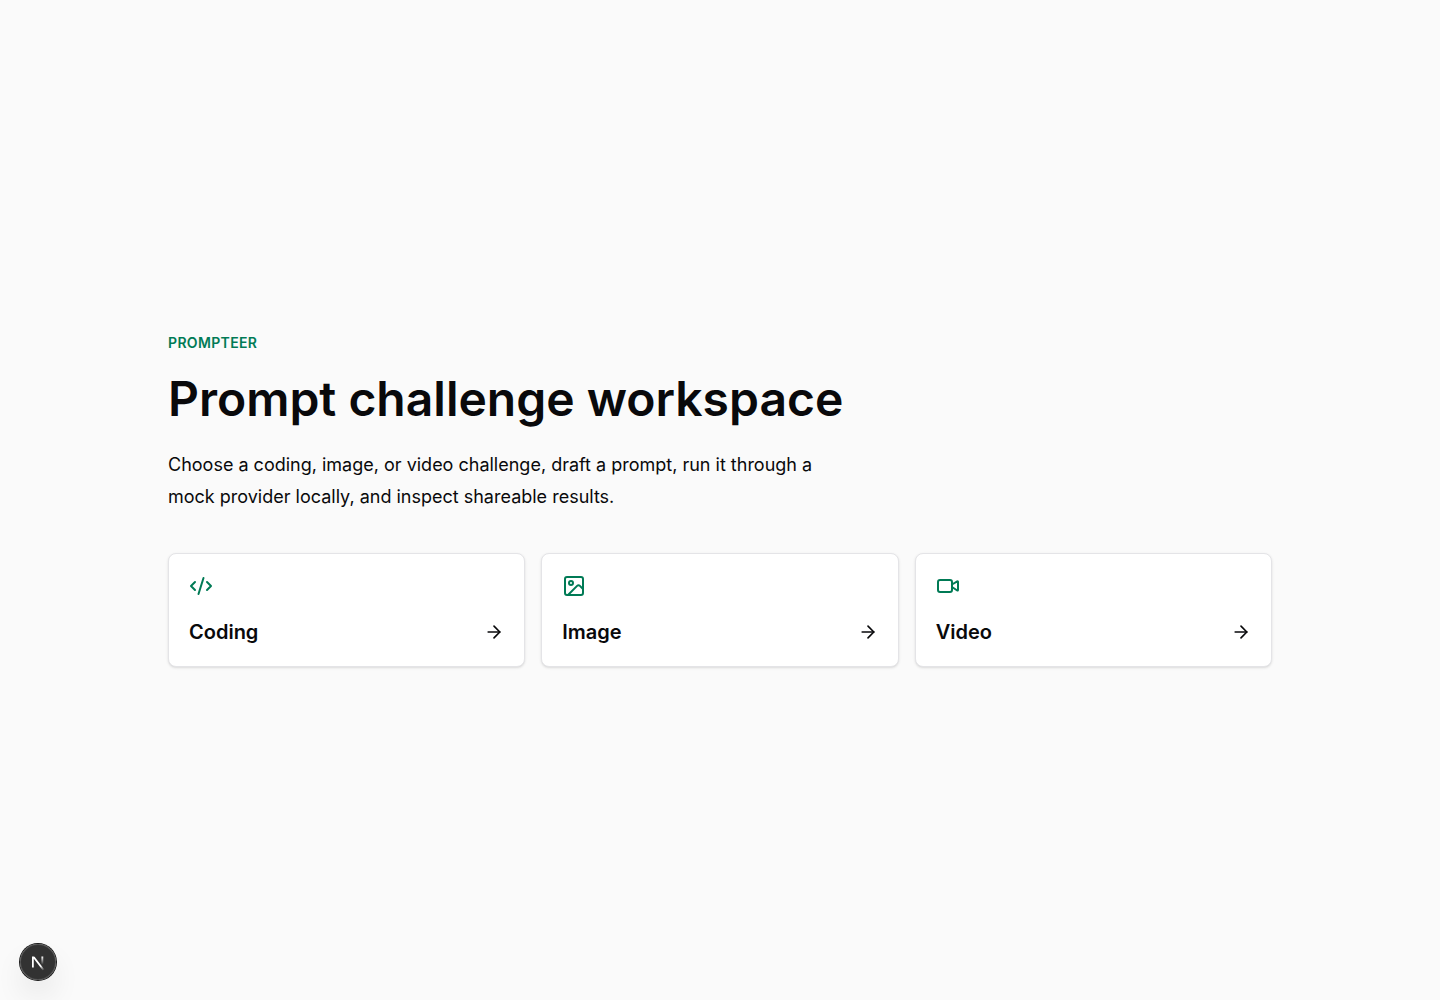
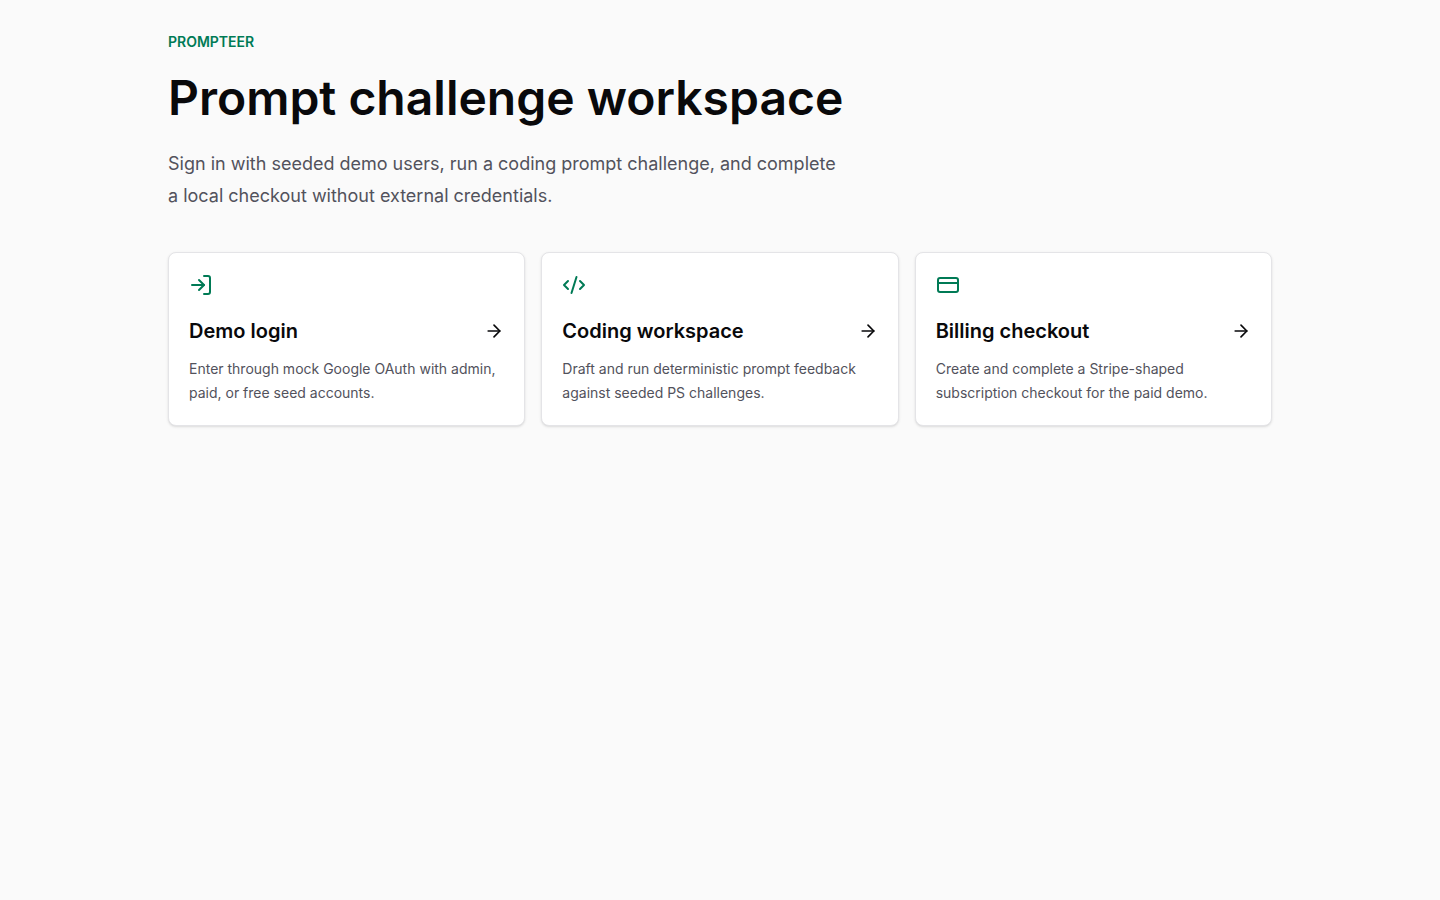
feat(web): link verified app entrypoints

diff --git a/apps/web/src/app/[locale]/page.tsx b/apps/web/src/app/[locale]/page.tsx
@@ -1,10 +1,11 @@
-import { ArrowRight, Code2, ImageIcon, Video } from "lucide-react";
+import { ArrowRight, Code2, CreditCard, LogIn } from "lucide-react";
+import Link from "next/link";
 import { getTranslations } from "next-intl/server";
 
-const categories = [
+const entrypoints = [
+  { key: "login", icon: LogIn, href: "/en/login" },
   { key: "coding", icon: Code2, href: "/en/challenges/coding" },
-  { key: "image", icon: ImageIcon, href: "/en/challenges/image" },
-  { key: "video", icon: Video, href: "/en/challenges/video" }
+  { key: "billing", icon: CreditCard, href: "/en/billing" },
 ] as const;
 
 export default async function HomePage(): Promise<React.ReactElement> {
@@ -12,27 +13,41 @@ export default async function HomePage(): Promise<React.ReactElement> {
 
   return (
     <main className="min-h-screen bg-zinc-50 text-zinc-950">
-      <section className="mx-auto flex min-h-screen w-full max-w-6xl flex-col justify-center px-6 py-10">
+      <section className="mx-auto w-full max-w-6xl px-6 py-8">
         <div className="max-w-3xl">
-          <p className="text-sm font-semibold uppercase tracking-wide text-emerald-700">Prompteer</p>
-          <h1 className="mt-4 text-5xl font-semibold leading-tight text-zinc-950">{t("title")}</h1>
-          <p className="mt-5 max-w-2xl text-lg leading-8 text-zinc-650">{t("subtitle")}</p>
+          <p className="text-sm font-semibold uppercase text-emerald-700">
+            Prompteer
+          </p>
+          <h1 className="mt-4 text-5xl font-semibold leading-tight text-zinc-950">
+            {t("title")}
+          </h1>
+          <p className="mt-5 max-w-2xl text-lg leading-8 text-zinc-600">
+            {t("subtitle")}
+          </p>
         </div>
         <div className="mt-10 grid gap-4 md:grid-cols-3">
-          {categories.map((category) => {
-            const Icon = category.icon;
+          {entrypoints.map((entrypoint) => {
+            const Icon = entrypoint.icon;
             return (
-              <a
-                key={category.key}
-                href={category.href}
+              <Link
+                key={entrypoint.key}
+                href={entrypoint.href}
                 className="group rounded-lg border border-zinc-200 bg-white p-5 shadow-sm transition hover:border-emerald-500"
               >
-                <Icon className="h-6 w-6 text-emerald-700" aria-hidden="true" />
+                <Icon aria-hidden="true" className="h-6 w-6 text-emerald-700" />
                 <div className="mt-5 flex items-center justify-between">
-                  <h2 className="text-xl font-semibold">{t(category.key)}</h2>
-                  <ArrowRight className="h-5 w-5 transition group-hover:translate-x-1" aria-hidden="true" />
+                  <h2 className="text-xl font-semibold">
+                    {t(`${entrypoint.key}.title`)}
+                  </h2>
+                  <ArrowRight
+                    aria-hidden="true"
+                    className="h-5 w-5 transition group-hover:translate-x-1"
+                  />
                 </div>
-              </a>
+                <p className="mt-3 text-sm leading-6 text-zinc-600">
+                  {t(`${entrypoint.key}.description`)}
+                </p>
+              </Link>
             );
           })}
         </div>